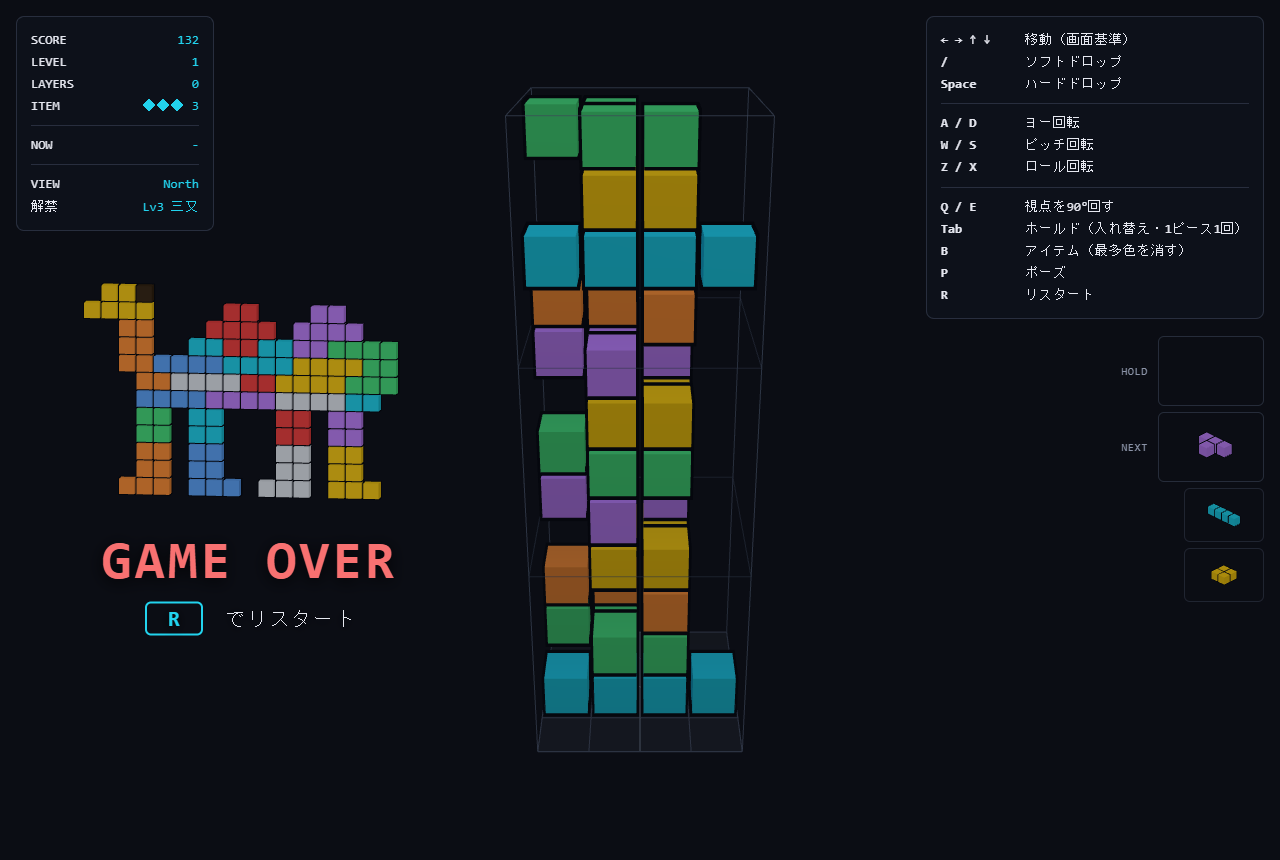
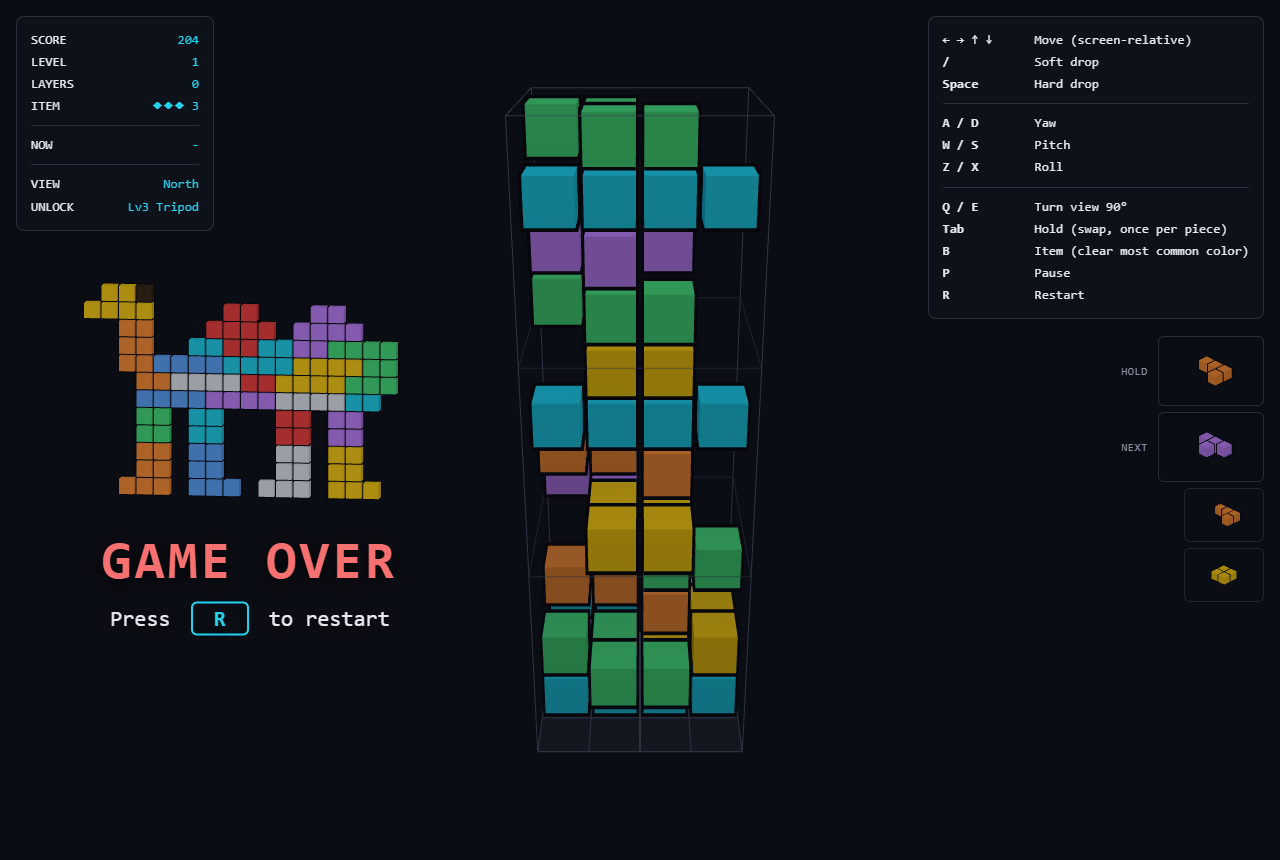
Unify the in-game UI in English
The HUD mixed languages, most visibly inside a single panel: the "VIEW /
North" row sat directly above "解禁 / Lv3 三又", and lines like
"PAUSED — P で再開" mixed both in one sentence.

Since most visitors to this repository read English, the whole UI is now
English rather than picking a labelling rule per panel.

- stats labels, notices, pause and game over text
- key help panel
- piece names (Tripod / R-Screw / L-Screw)
- html lang=en
- README screenshots retaken with the English UI

diff --git a/src/main.ts b/src/main.ts
@@ -99,13 +99,13 @@ const handlers: InputHandlers = {
     if (paused) return;
     // 効かなかった理由を出さないと「壊れている」と受け取られる。
     if (!game.hold() && game.phase === 'falling') {
-      showNotice('ホールドはピースを置くまで1回だけ', 1800);
+      showNotice('Hold: once per piece', 1800);
     }
   },
   useItem() {
     if (paused) return;
     if (!game.useItem() && game.phase === 'falling') {
-      showNotice(game.items === 0 ? 'アイテムがありません' : '消せるブロックがありません', 1800);
+      showNotice(game.items === 0 ? 'No items left' : 'Nothing to clear', 1800);
     }
   },
   togglePause() {
@@ -132,14 +132,15 @@ const label = (id: string | null): string =>
 function updateStats(dt: number): void {
   for (const event of game.drainEvents()) {
     if (event.type === 'clear') {
-      showNotice(`${event.layers.length} レイヤー消去 +${event.gained}`, 2500);
+      const plural = event.layers.length === 1 ? 'layer' : 'layers';
+      showNotice(`${event.layers.length} ${plural} cleared  +${event.gained}`, 2500);
     } else if (event.type === 'levelup') {
       const unlocked = unlockedAtLevel(event.level);
       if (unlocked.length > 0) {
-        showNotice(`新しいピース: ${unlocked.map(label).join(' / ')}`, 5000);
+        showNotice(`New piece: ${unlocked.map(label).join(' / ')}`, 5000);
       }
     } else if (event.type === 'item-used') {
-      showNotice(`${label(event.id)} のブロックを ${event.removed} 個消去`, 2500);
+      showNotice(`Cleared ${event.removed} ${label(event.id)} blocks`, 2500);
     }
   }
 
@@ -152,7 +153,7 @@ function updateStats(dt: number): void {
   const upcoming = nextUnlock(game.level);
   // ゲームオーバーは左側の大きな表示が担当するので、ここには出さない。
   const banner = paused
-    ? '<div class="banner">PAUSED — P で再開</div>'
+    ? '<div class="banner">PAUSED — press P to resume</div>'
     : notice
       ? `<div class="banner">${notice}</div>`
       : '';
@@ -166,7 +167,7 @@ function updateStats(dt: number): void {
     row('NOW', label(game.activeId)),
     '<hr>',
     row('VIEW', DIR_LABELS[stage.rig.viewDir]),
-    upcoming ? row('解禁', `Lv${upcoming.level} ${upcoming.ids.map(label).join('/')}`) : '',
+    upcoming ? row('UNLOCK', `Lv${upcoming.level} ${upcoming.ids.map(label).join('/')}`) : '',
     banner,
   ].join('');
 }

diff --git a/index.html b/index.html
@@ -1,5 +1,5 @@
 <!doctype html>
-<html lang="ja">
+<html lang="en">
   <head>
     <meta charset="UTF-8" />
     <meta name="viewport" content="width=device-width, initial-scale=1.0" />
@@ -66,7 +66,7 @@
       #help b {
         color: var(--fg);
         display: inline-block;
-        min-width: 84px;
+        min-width: 92px;
       }
       #help .section {
         color: var(--fg);
@@ -155,7 +155,7 @@
         display: inline-block;
         min-width: 34px;
         padding: 2px 10px;
-        margin-right: 8px;
+        margin: 0 8px;
         border: 2px solid var(--accent);
         border-radius: 6px;
         color: var(--accent);
@@ -204,27 +204,27 @@
     <div id="stats" class="panel"></div>
     <div id="help" class="panel">
       <div class="section">
-        <b>← → ↑ ↓</b>移動（画面基準）<br />
-        <b>/</b>ソフトドロップ<br />
-        <b>Space</b>ハードドロップ
+        <b>← → ↑ ↓</b>Move (screen-relative)<br />
+        <b>/</b>Soft drop<br />
+        <b>Space</b>Hard drop
       </div>
       <div class="section">
-        <b>A / D</b>ヨー回転<br />
-        <b>W / S</b>ピッチ回転<br />
-        <b>Z / X</b>ロール回転
+        <b>A / D</b>Yaw<br />
+        <b>W / S</b>Pitch<br />
+        <b>Z / X</b>Roll
       </div>
       <div class="section">
-        <b>Q / E</b>視点を90°回す<br />
-        <b>Tab</b>ホールド（入れ替え・1ピース1回）<br />
-        <b>B</b>アイテム（最多色を消す）<br />
-        <b>P</b>ポーズ<br />
-        <b>R</b>リスタート
+        <b>Q / E</b>Turn view 90°<br />
+        <b>Tab</b>Hold (swap, once per piece)<br />
+        <b>B</b>Item (clear most common color)<br />
+        <b>P</b>Pause<br />
+        <b>R</b>Restart
       </div>
     </div>
     <div id="gameover">
       <div class="camel" id="camel-box"></div>
       <div class="title">GAME OVER</div>
-      <div class="sub"><b>R</b> でリスタート</div>
+      <div class="sub">Press <b>R</b> to restart</div>
     </div>
     <div id="preview">
       <div class="slot"><span class="tag">HOLD</span><div class="box" id="slot-hold"></div></div>

diff --git a/src/core/pieces.ts b/src/core/pieces.ts
@@ -158,14 +158,14 @@ export const PIECES: Record<PieceId, PieceDef> = Object.fromEntries(
   PIECE_IDS.map((id) => [id, build(id)]),
 ) as Record<PieceId, PieceDef>;
 
-/** 画面表示用の名前。立体3種は英字IDだと形が想像できないので和名にする。 */
+/** 画面表示用の名前。立体3種は SCREW_R のような内部IDのままだと読みにくいので整える。 */
 export const PIECE_LABELS: Record<PieceId, string> = {
   I: 'I',
   O: 'O',
   L: 'L',
   T: 'T',
   S: 'S',
-  TRIPOD: '三又',
-  SCREW_R: '右ねじ',
-  SCREW_L: '左ねじ',
+  TRIPOD: 'Tripod',
+  SCREW_R: 'R-Screw',
+  SCREW_L: 'L-Screw',
 };
